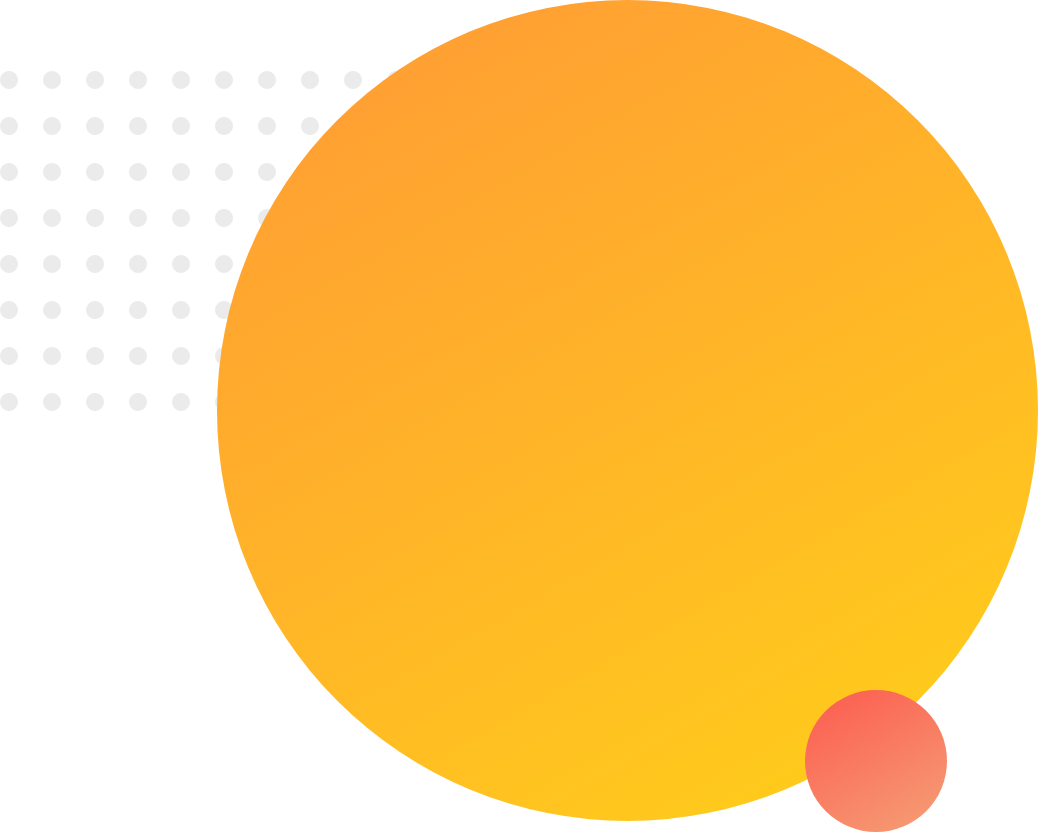
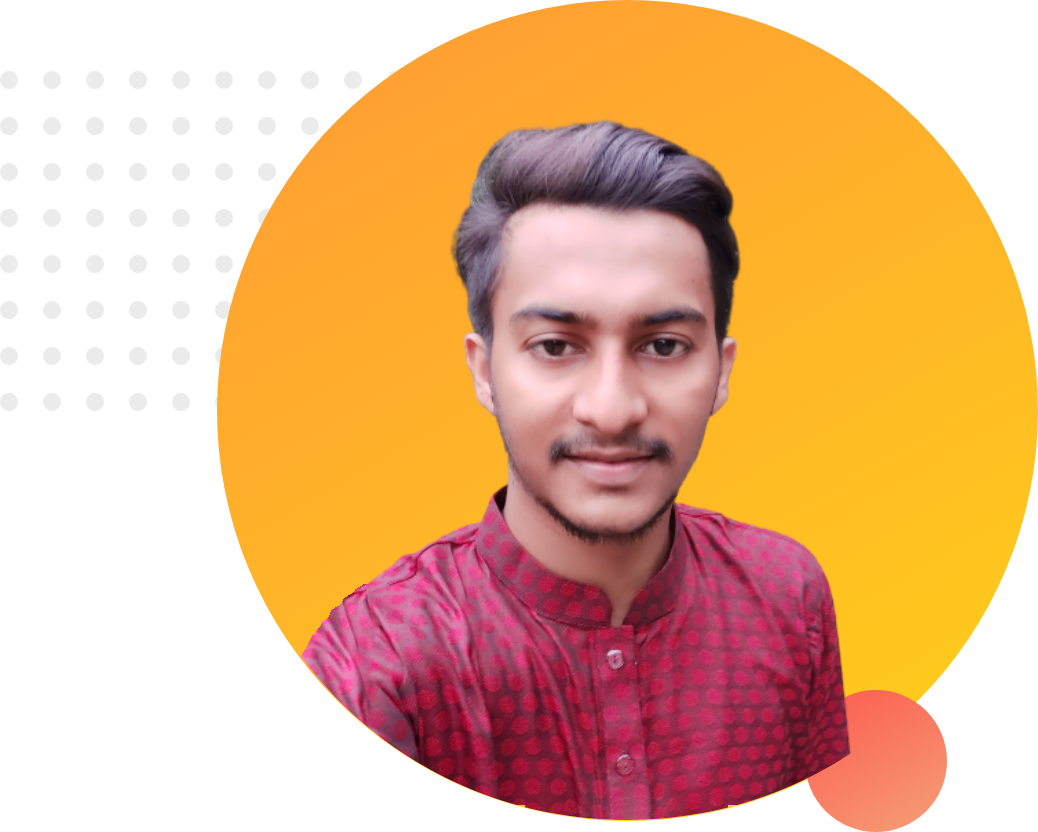
first website finish

Changed region(s): [[0.2775, 0.125, 0.8324, 1.0]]

diff --git a/picture/index.html b/picture/index.html
@@ -1,0 +1,56 @@
+<!DOCTYPE html>
+<html lang="en">
+<head>
+    <meta charset="UTF-8">
+    <meta name="viewport" content="width=device-width, initial-scale=1.0">
+    <title>Rk rafi web Developer</title>
+    <link rel="preconnect" href="https://fonts.gstatic.com">
+    <link href="https://fonts.googleapis.com/css2?family=Poppins:wght@500&display=swap" rel="stylesheet"> 
+    <link rel="stylesheet" href="\web development\my project\web-portfoleo\picture\pictue\web-prtfoleo\style.css">
+
+</head>
+<body>
+    <section class="top-banner">
+     <div class="half-width">
+    <h1>welcome to </h1>
+    <h1><span class="orange-highlight">Rk.Rafi </span> Website</h1>
+    <h3>world-class professonal web developar</h3>
+    <p>I want to learn about web depelopment.how can i build or improvemet my learning part.i know it's very hard,but i trying my best knowlage.so it's my new site.here some mistake,i will learn it.</p>
+    <a class="link-button" href="https://www.google.com/search?q=web.programming-hero&oq=&aqs=chrome.0.35i39i362l8...8.5974968j0j7&sourceid=chrome&ie=UTF-8" target="_blank">HIRE ME</a>
+    </div>
+    <div class="half-width">
+        <img src="image 13.png" alt="rk rafi">
+    </div>
+    </section>
+
+    <section class="dream-area">
+        <div class="half-width">
+            <img src="image 11.png" alt="rkrafi">
+        </div>
+        <div class="half-width">
+                <h2>Big Dream</h2>
+                <h3>Become World's No.1 Developer</h3>
+                <p>when i start my learning,which time i missed more enjoyble time.but i still my learning.No weast time,and no moment.</p>
+                <a class="link-button" href="https://www.w3schools.com/" target="_blank">DOWNLOAD RESUME</a>
+        </div>
+
+    </section>
+    <section class="experience-area">
+        <h2>Experience</h2>
+        <div id="full-stack" class="half-width single-experience">
+                    
+            <h2>Full Stack Web Developer</h2>
+            <h3 class="orange-highlight">2021-present|pro level Wev Developer</h3>
+            <p>Ame akhon motamute web develop somporke  buje,Medium type ar web site khulteo parbo kono bepar na.mone akhon onk sahos ace,insha-allah ame parbo.sudu aktu dorjo ar hard work korte hobe.kono bepar na.life onk time nosto korce,kintu ar na,allah jano sohi hoy.future aro onk kicu korar icca ace.baki ta allah'r upor.allah ja kore alhamdullih</p>
+        </div>
+        <div id="baby-web" class="half-width single-experience">
+            <h2>Fuska Web Developer</h2>
+            <h3 class="orange-highlight">2020-2021 | programming-hero learnear</h3>
+            <p>Asole onk vhoy celo j,ame parbo kina?ameto onno  depertment ar.TO pore onk sahos aslo ,jokhon akta website banalam,onk tools janlam,bujlamdepertment ar.TO pore onk sahos aslo ,jokhon akta website banalam,onk tools janlam,bujlamAsole onk vhoy celo j,ame parbo kina?ameto onno  depertment ar.TO pore onk sahos aslo ,jokhon akta website banalam,onk tools janlam,</p>
+        </div>
+    </section>
+    <footer>
+        <p>copy- RK.Rafi 2021-01-04</p>
+    </footer>
+</body>
+</html>

diff --git a/picture/pictue/web-prtfoleo/style.css b/picture/pictue/web-prtfoleo/style.css
@@ -1,0 +1,75 @@
+body {
+    margin: 0px;
+
+font-family: 'Poppins', sans-serif;
+}
+h1{
+    font-size: 40px;
+    
+}
+h2{
+    font-size: 40px;
+}
+p{
+    color: dimgray;
+}
+.orange-highlight{
+    color:coral;
+}
+.half-width{
+    width: 40%;
+    float: left;
+    margin-left: 5%;
+    padding-left:2%;
+}
+.half-width img {
+    width: 100%;
+}
+.top-banner{
+    background-image: url("top-banner.png");
+    background-repeat: no-repeat;
+}
+section{
+    height: 500px;
+    padding-bottom: 150px;
+}
+.link-button{
+    text-decoration: none;
+    background-image: linear-gradient(45deg, lightsalmon,tomato);
+    padding: 10px 20px ;
+    border-radius: 5px;
+    color: white;
+    font-weight: 700;
+
+}
+.dream-area{
+    background-image: url(dream-bg.png);
+    background-repeat: no-repeat;
+    background-position: right;
+}
+.single-experience{
+    box-shadow: 10px 10px 40px gray;
+    border-radius: 5px;
+    height: 90%;
+    background-color: white;
+}
+.experience-area{
+    background-image: url(exp-bg.png);
+    background-repeat: no-repeat;
+    background-position: left;
+
+}
+#full-stack{
+    border-left: 10px solid;
+    border-image: linear-gradient(180deg, lightsalmon, tomato);
+    border-image-slice: 1;
+}
+#baby-web{
+    border-left: 7px solid;
+    border-image: linear-gradient(180deg,blue,cyan);
+    border-image-slice: 1;
+}
+footer p{
+    text-align: center;
+    font-size: 12px;
+}

diff --git a/picture/web-prtfoleo/style.css b/picture/web-prtfoleo/style.css
@@ -1,0 +1,3 @@
+h1{
+    font-size: 50%;
+}

diff --git a/picture/README.md b/picture/README.md
@@ -1,0 +1,1 @@
+# web-portfoleo
